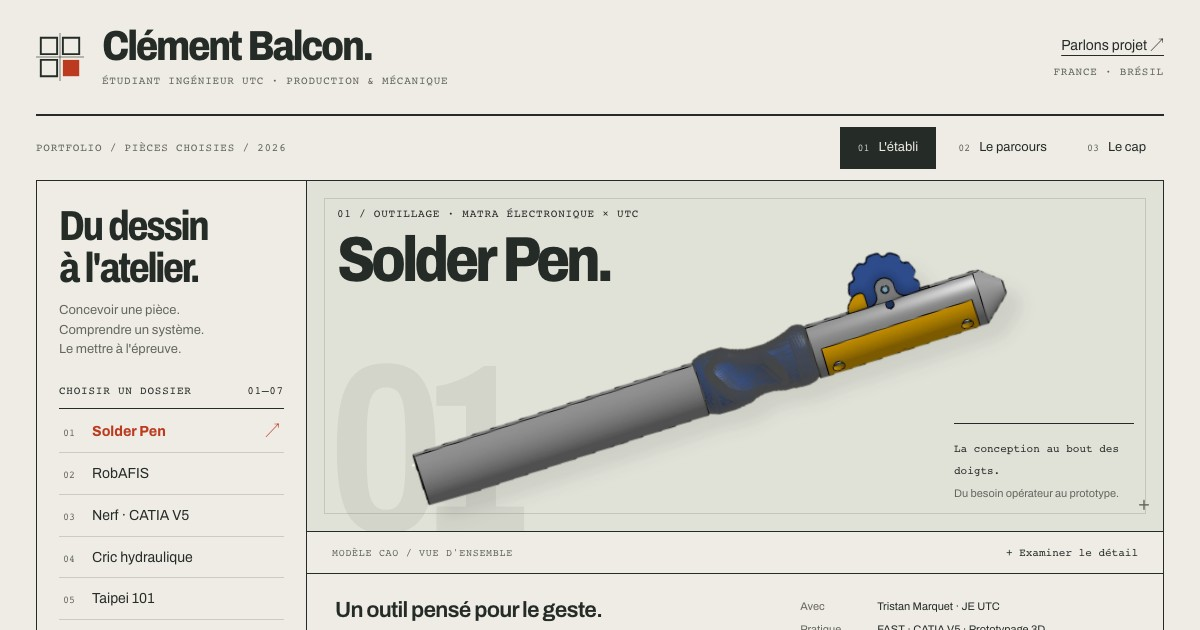
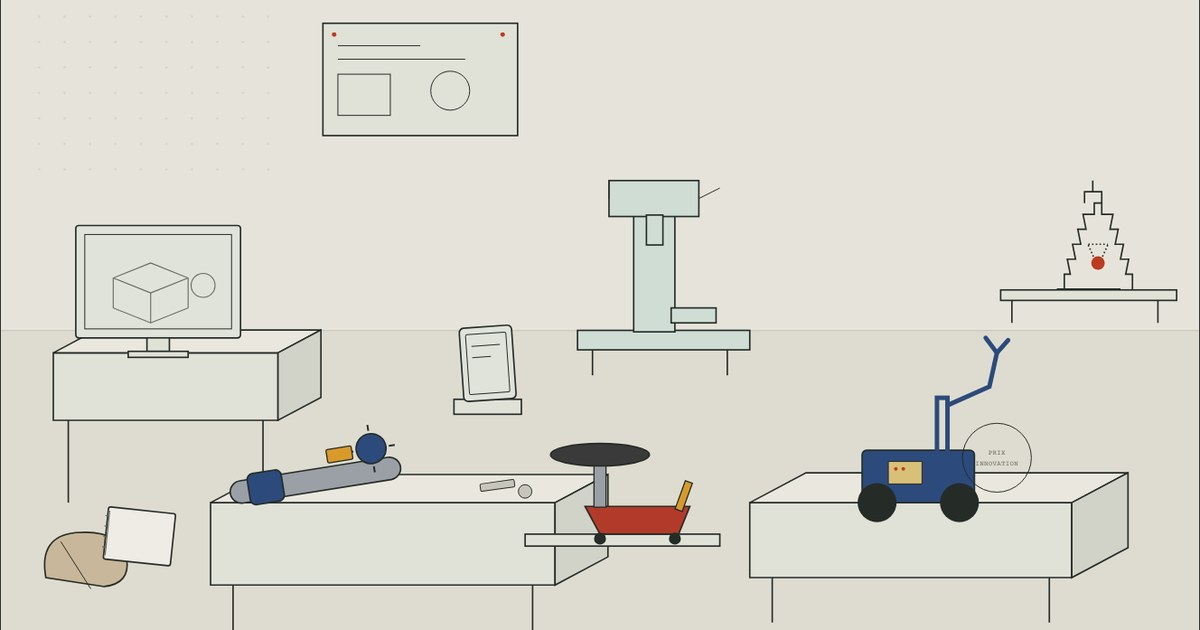
Finaliser l'atelier : étiquette au survol, miniature de partage, doc
Étiquette visible au survol/focus sur chaque objet de l'atelier (nom +
discipline), pas seulement l'aria-label — demande explicite du plan
pour que les utilisateurs voyants aient la même information que les
lecteurs d'écran.

og-atelier.jpg régénéré à partir du rendu réel de la nouvelle scène
(elle montrait encore l'ancienne interface papier). og:description et
og:image:alt mis à jour en conséquence.

CLAUDE.md documente l'état réel : atelier = vue par défaut, ancienne
interface devenue « Tous les projets », renommage des ids de dossiers,
mode développeur ?hotspots=1, et limites connues assumées explicitement
(pas de test Safari réel, tap Playwright sur SVG mobile non concluant
en automatisé alors que le clic fonctionne, ordre de tabulation stable
mais pas trié en ordre de lecture visuelle, sous-pages non re-testées
car non modifiées).

Vérifié : 375/680/1440 × mouvement normal/réduit, aucun débordement ni
erreur console.

diff --git a/index.html b/index.html
@@ -7,10 +7,10 @@
   <meta name="description" content="L'établi de Clément Balcon. Sept projets de mécanique, de robotique et de développement, un parcours UTC / Safran et un cap : la mécanique de précision.">
   <meta property="og:type" content="website">
   <meta property="og:title" content="Clément Balcon — Du dessin à l'atelier">
-  <meta property="og:description" content="Conception, production, expérimentation. Explorez les dossiers de mon établi d'ingénieur.">
+  <meta property="og:description" content="Conception, production, expérimentation. Explorez l'atelier et ouvrez chaque projet.">
   <meta property="og:url" content="https://clementbalcon.fr/">
   <meta property="og:image" content="https://clementbalcon.fr/og-atelier.jpg">
-  <meta property="og:image:alt" content="L'établi de Clément Balcon, ouvert sur le dossier Solder Pen">
+  <meta property="og:image:alt" content="L'atelier de Clément Balcon : établi, robot, poste de CAO et autres objets ouvrant chacun un projet">
   <meta name="twitter:card" content="summary_large_image">
   <link rel="icon" href="/favicon.svg" type="image/svg+xml">
   <link rel="apple-touch-icon" href="/apple-touch-icon-portfolio.png">

diff --git a/CLAUDE.md b/CLAUDE.md
@@ -1,13 +1,60 @@
 # Portfolio — clementbalcon.github.io
 
-## Prochaine refonte demandée — atelier immersif
+## L'atelier — état réel au 6 septembre 2026
 
-Clément souhaite désormais un accueil représentant un atelier de mécanique de
-précision, dont les objets surlignés ouvrent les projets. Lire
-[PLAN_ATELIER_IMMERSIF.md](PLAN_ATELIER_IMMERSIF.md) pour le brief, le plan
-détaillé, la stratégie d’assets, la navigation et les critères de validation.
-Ce concept a été accepté, mais la scène n’est pas encore produite ni intégrée.
-L’état décrit ci-dessous est celui de l’interface papier existante à `338234d`.
+L'accueil (`index.html`) est désormais l'atelier de mécanique de précision
+décrit dans [PLAN_ATELIER_IMMERSIF.md](PLAN_ATELIER_IMMERSIF.md) : une scène
+SVG inline (desktop + mobile, pas un recadrage l'une de l'autre), neuf objets
+dont sept sont de vrais `<a href>` vers les pages projet et deux sont des
+ancres internes (`#experience`, `#projet`). Vue par défaut = `#atelier`.
+L'ancienne interface « L'établi » (dossiers sur fond papier) n'a pas été
+supprimée : elle est devenue la vue « Tous les projets » (`#projects`),
+l'accès texte explicite demandé par le plan.
+
+**Traitement visuel** : dessin technique (ligne encrée, projection cavalière
+28°), pas une illustration peinte/quasi-photo. Aucun outil de génération
+d'image ni Blender n'était disponible dans l'environnement d'exécution —
+détaillé et assumé dans `design/atelier/composition.md`, avec deux prompts
+prêts à l'emploi si Clément veut faire produire la version illustrée à la
+place. Le SVG technique sert alors de base de calibrage des hotspots ; seul
+le fond change.
+
+**Fichiers de référence** : `design/atelier/composition.md` (direction,
+carte objets→destinations, prompts), `hotspots.json` (coordonnées partagées
+desktop/mobile, vérifiées sans chevauchement), `scene-desktop.svg` /
+`scene-mobile.svg` (copies de référence — la version intégrée vit dans
+`index.html`, resynchroniser après toute modification de l'une des deux).
+
+**Ids renommés** : les 7 anciens dossiers (`id="matra"` etc.) sont devenus
+`id="dossier-matra"` etc. pour libérer les ids courts, désormais utilisés par
+le routeur pour désigner l'objet correspondant dans l'atelier (`#matra` =
+« va à l'atelier et mets en évidence le Solder Pen », plus « ouvre
+matra.html » pour le lien réel de l'objet lui-même). Si un nouveau lien
+interne vers un dossier doit être ajouté (ex. liens « preuve » de la section
+compétences), cibler `#dossier-<id>`, pas `#<id>`.
+
+**Mode développeur** : `index.html?hotspots=1` affiche contours, centres et
+identifiants de chaque zone interactive — à utiliser pour recalibrer
+`hotspots.json` après tout changement de cadrage ou d'illustration.
+
+**Non fait / limites connues** (voir aussi section 16-17 du plan) :
+- Pas de test Safari réel (uniquement Chromium via Playwright dans cet
+  environnement).
+- `.tap()` Playwright sur les hotspots SVG mobiles n'a pas navigué dans le
+  test automatisé alors que `.click()` fonctionne parfaitement (probablement
+  une limite de synthèse tactile de Playwright sur `<a>` en SVG, pas un bug
+  du site — mais non confirmé sur un vrai téléphone).
+- Ordre de tabulation des 9 objets stable mais pas strictement trié en ordre
+  de lecture visuelle (gauche→droite, haut→bas) — fonctionnel, perfectible.
+- Pas de ré-audit complet des 7 pages projet + Training (elles n'ont pas été
+  modifiées dans ce chantier, mais n'ont pas non plus été re-testées).
+
+## Historique — avant l'atelier (« L'établi », interface papier)
+
+Ce qui suit décrit l'état à `338234d`, antérieur à l'intégration de
+l'atelier. Gardé pour mémoire : le contenu (parcours, compétences,
+confidentialité) reste valable, mais la description de l'accueil ne
+correspond plus à ce qui est chargé aujourd'hui.
 
 ## État actuel — septembre 2026
 - Copie de travail : `/Users/ClementBalcon/Documents/Pro/clementbalcon.github.io`.
